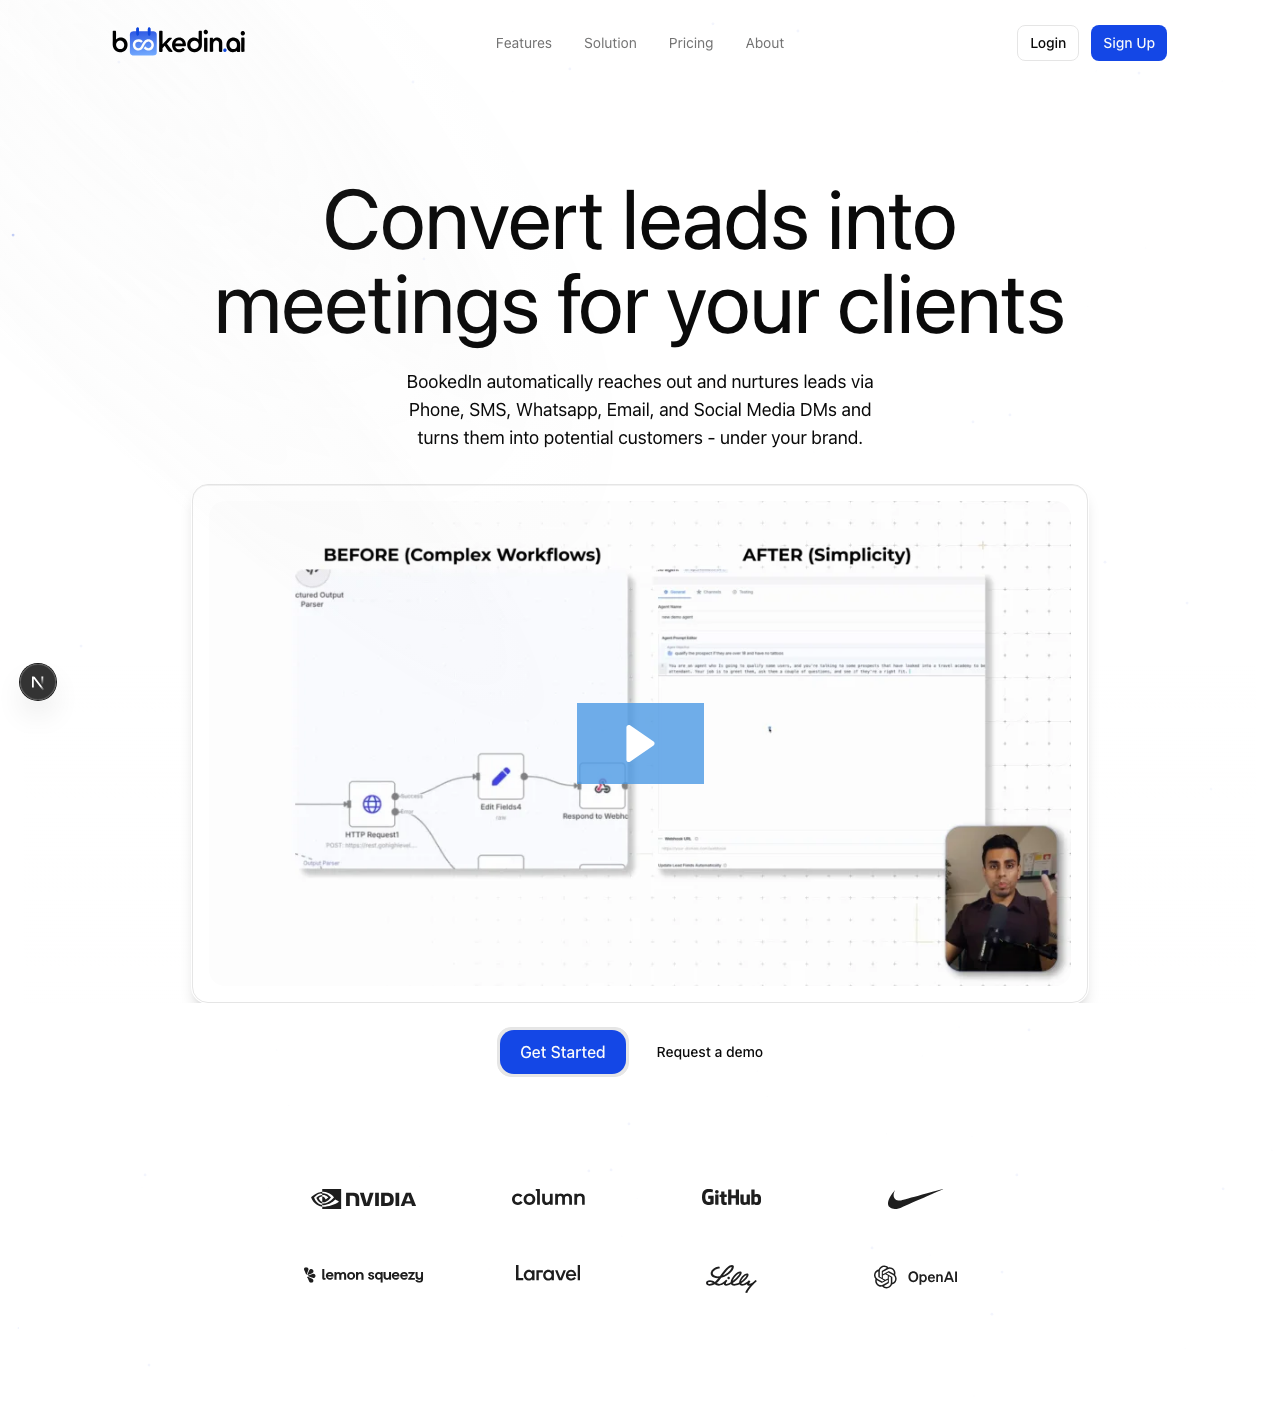
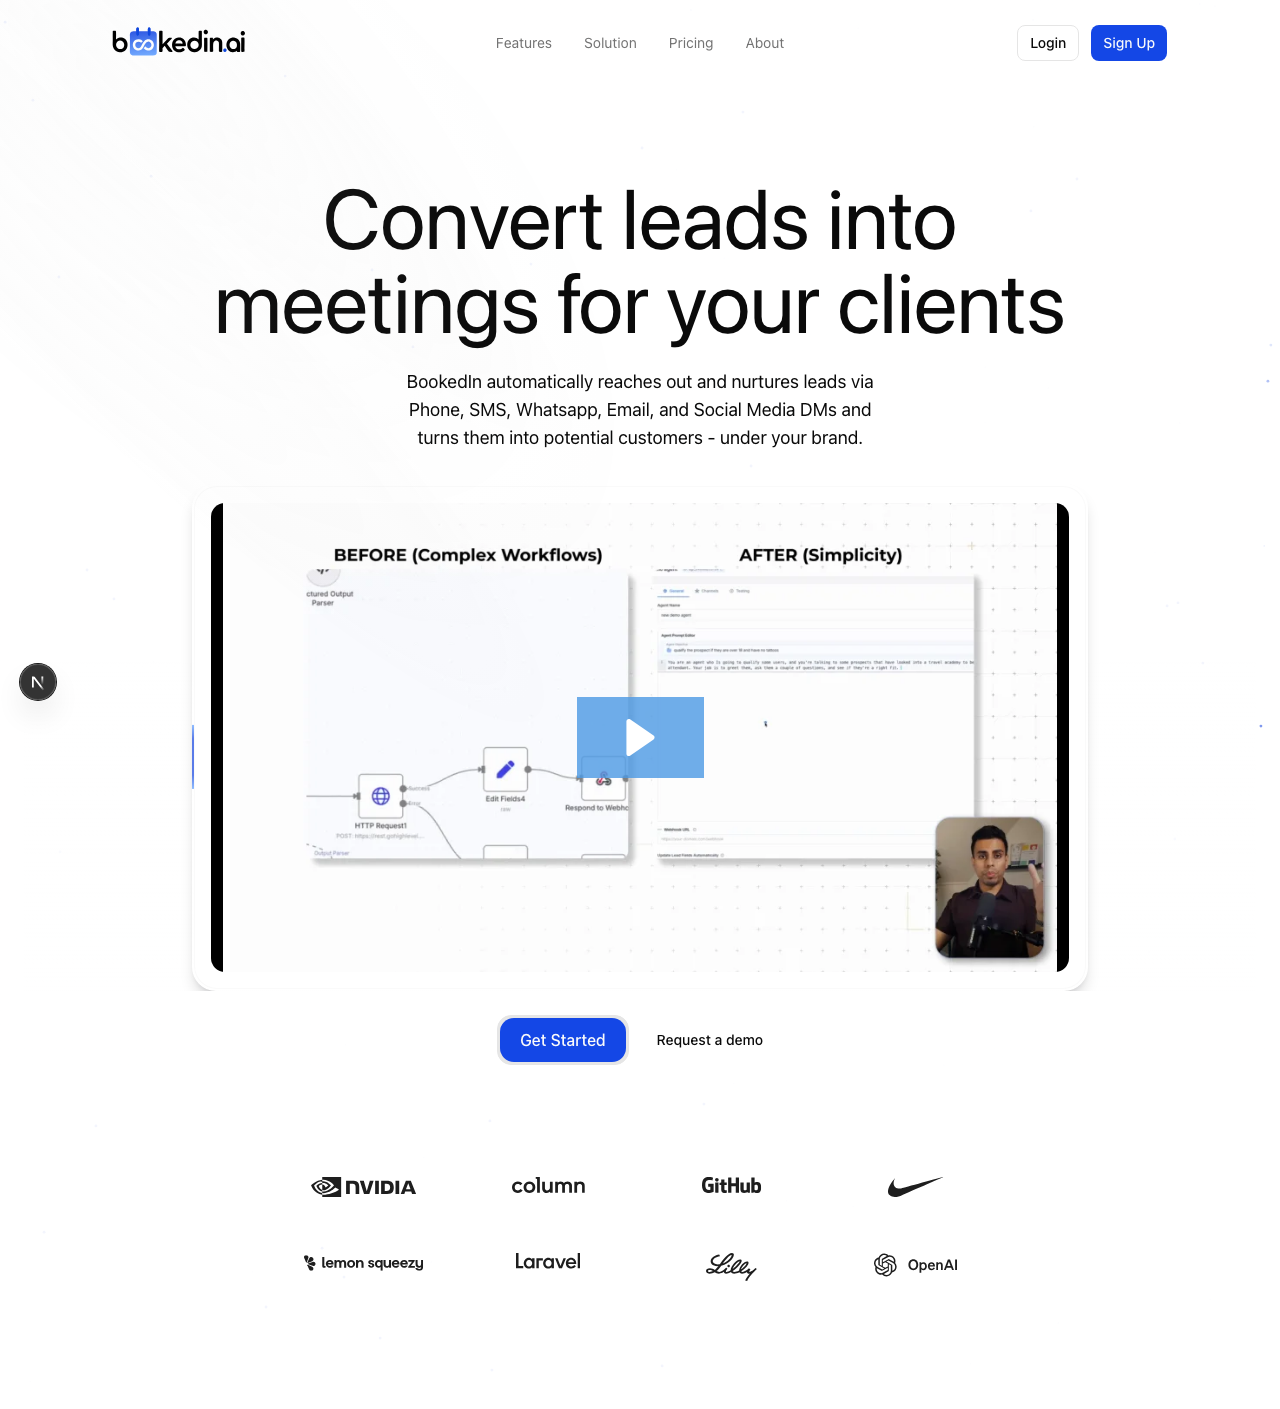
feat: Add moving border animation around video
- Integrated moving-border component from UI library
- Created VideoMovingBorder wrapper specifically for video content
- Added animated border with BookedIn brand colors (#305AE3, #73ABFF)
- Configured 4-second animation duration for smooth effect
- Added CSS variables for sky colors to support gradients
- Created demo component for moving border button
- Verified implementation with Playwright (no console errors)
- Enhanced video presentation with animated border effect

diff --git a/components/ui/moving-border.tsx b/components/ui/moving-border.tsx
@@ -1,0 +1,139 @@
+"use client";
+import React from "react";
+import {
+  motion,
+  useAnimationFrame,
+  useMotionTemplate,
+  useMotionValue,
+  useTransform,
+} from "framer-motion";
+import { useRef } from "react";
+import { cn } from "@/lib/utils";
+
+export function Button({
+  borderRadius = "1.75rem",
+  children,
+  as: Component = "button",
+  containerClassName,
+  borderClassName,
+  duration,
+  className,
+  ...otherProps
+}: {
+  borderRadius?: string;
+  children: React.ReactNode;
+  as?: any;
+  containerClassName?: string;
+  borderClassName?: string;
+  duration?: number;
+  className?: string;
+  [key: string]: any;
+}) {
+  return (
+    <Component
+      className={cn(
+        "bg-transparent relative text-xl  h-16 w-40 p-[1px] overflow-hidden ",
+        containerClassName
+      )}
+      style={{
+        borderRadius: borderRadius,
+      }}
+      {...otherProps}
+    >
+      <div
+        className="absolute inset-0"
+        style={{ borderRadius: `calc(${borderRadius} * 0.96)` }}
+      >
+        <MovingBorder duration={duration} rx="30%" ry="30%">
+          <div
+            className={cn(
+              "h-20 w-20 opacity-[0.8] bg-[radial-gradient(var(--sky-500)_40%,transparent_60%)]",
+              borderClassName
+            )}
+          />
+        </MovingBorder>
+      </div>
+
+      <div
+        className={cn(
+          "relative bg-slate-900/[0.8] border border-slate-800 backdrop-blur-xl text-white flex items-center justify-center w-full h-full text-sm antialiased",
+          className
+        )}
+        style={{
+          borderRadius: `calc(${borderRadius} * 0.96)`,
+        }}
+      >
+        {children}
+      </div>
+    </Component>
+  );
+}
+
+export const MovingBorder = ({
+  children,
+  duration = 2000,
+  rx,
+  ry,
+  ...otherProps
+}: {
+  children: React.ReactNode;
+  duration?: number;
+  rx?: string;
+  ry?: string;
+  [key: string]: any;
+}) => {
+  const pathRef = useRef<any>();
+  const progress = useMotionValue<number>(0);
+
+  useAnimationFrame((time) => {
+    const length = pathRef.current?.getTotalLength();
+    if (length) {
+      const pxPerMillisecond = length / duration;
+      progress.set((time * pxPerMillisecond) % length);
+    }
+  });
+
+  const x = useTransform(
+    progress,
+    (val) => pathRef.current?.getPointAtLength(val).x
+  );
+  const y = useTransform(
+    progress,
+    (val) => pathRef.current?.getPointAtLength(val).y
+  );
+
+  const transform = useMotionTemplate`translateX(${x}px) translateY(${y}px) translateX(-50%) translateY(-50%)`;
+
+  return (
+    <>
+      <svg
+        xmlns="http://www.w3.org/2000/svg"
+        preserveAspectRatio="none"
+        className="absolute h-full w-full"
+        width="100%"
+        height="100%"
+        {...otherProps}
+      >
+        <rect
+          fill="none"
+          width="100%"
+          height="100%"
+          rx={rx}
+          ry={ry}
+          ref={pathRef}
+        />
+      </svg>
+      <motion.div
+        style={{
+          position: "absolute",
+          top: 0,
+          left: 0,
+          display: "inline-block",
+          transform,
+        }}
+      >
+        {children}
+      </motion.div>
+    </>
+  );
+};

diff --git a/components/blocks/hero-section-1.tsx b/components/blocks/hero-section-1.tsx
@@ -7,6 +7,7 @@ import { Button } from '@/components/ui/button'
 import { AnimatedGroup } from '@/components/ui/animated-group'
 import { HeroVideoDialog } from '@/components/ui/hero-video-dialog'
 import { Particles } from '@/components/ui/particles'
+import { VideoMovingBorder } from '@/components/ui/video-border'
 import { cn } from '@/lib/utils'
 
 const transitionVariants = {
@@ -115,16 +116,22 @@ export function HeroSection() {
                                             aria-hidden
                                             className="bg-gradient-to-b to-background absolute inset-0 z-0 from-transparent from-35%"
                                         />
-                                        <div className="inset-shadow-2xs ring-background dark:inset-shadow-white/20 bg-background relative mx-auto max-w-4xl overflow-hidden rounded-2xl border p-4 shadow-lg shadow-zinc-950/15 ring-1 z-20">
-                                            <div className="aspect-video relative rounded-2xl z-30">
-                                                <iframe
-                                                    src="https://fast.wistia.net/embed/iframe/vuxx1meqz9?seo=true&videoFoam=false"
-                                                    title="BookedIn Demo Video"
-                                                    allow="autoplay; fullscreen"
-                                                    allowFullScreen
-                                                    className="absolute inset-0 w-full h-full rounded-2xl"
-                                                ></iframe>
-                                            </div>
+                                        <div className="relative mx-auto max-w-4xl z-20">
+                                            <VideoMovingBorder
+                                                duration={4000}
+                                                borderRadius="1.5rem"
+                                                className="shadow-lg shadow-zinc-950/15"
+                                            >
+                                                <div className="aspect-video relative rounded-2xl overflow-hidden p-4">
+                                                    <iframe
+                                                        src="https://fast.wistia.net/embed/iframe/vuxx1meqz9?seo=true&videoFoam=false"
+                                                        title="BookedIn Demo Video"
+                                                        allow="autoplay; fullscreen"
+                                                        allowFullScreen
+                                                        className="absolute inset-4 w-[calc(100%-2rem)] h-[calc(100%-2rem)] rounded-xl"
+                                                    ></iframe>
+                                                </div>
+                                            </VideoMovingBorder>
                                         </div>
                                     </div>
                                 </AnimatedGroup>

diff --git a/components/ui/video-border.tsx b/components/ui/video-border.tsx
@@ -1,0 +1,132 @@
+"use client";
+import React from "react";
+import {
+  motion,
+  useAnimationFrame,
+  useMotionTemplate,
+  useMotionValue,
+  useTransform,
+} from "framer-motion";
+import { useRef } from "react";
+import { cn } from "@/lib/utils";
+
+export const VideoMovingBorder = ({
+  children,
+  duration = 3000,
+  borderRadius = "1rem",
+  className,
+  borderClassName,
+  ...otherProps
+}: {
+  children: React.ReactNode;
+  duration?: number;
+  borderRadius?: string;
+  className?: string;
+  borderClassName?: string;
+  [key: string]: any;
+}) => {
+  return (
+    <div
+      className={cn(
+        "relative p-[2px] overflow-hidden",
+        className
+      )}
+      style={{
+        borderRadius: borderRadius,
+      }}
+      {...otherProps}
+    >
+      <div
+        className="absolute inset-0"
+        style={{ borderRadius: `calc(${borderRadius} * 0.96)` }}
+      >
+        <MovingBorder duration={duration} rx="8%" ry="8%">
+          <div
+            className={cn(
+              "h-16 w-16 opacity-[0.8] bg-[radial-gradient(#305AE3_40%,#73ABFF_70%,transparent_100%)]",
+              borderClassName
+            )}
+          />
+        </MovingBorder>
+      </div>
+
+      <div
+        className="relative bg-background border border-border/20 backdrop-blur-xl w-full h-full"
+        style={{
+          borderRadius: `calc(${borderRadius} * 0.96)`,
+        }}
+      >
+        {children}
+      </div>
+    </div>
+  );
+};
+
+export const MovingBorder = ({
+  children,
+  duration = 2000,
+  rx,
+  ry,
+  ...otherProps
+}: {
+  children: React.ReactNode;
+  duration?: number;
+  rx?: string;
+  ry?: string;
+  [key: string]: any;
+}) => {
+  const pathRef = useRef<any>();
+  const progress = useMotionValue<number>(0);
+
+  useAnimationFrame((time) => {
+    const length = pathRef.current?.getTotalLength();
+    if (length) {
+      const pxPerMillisecond = length / duration;
+      progress.set((time * pxPerMillisecond) % length);
+    }
+  });
+
+  const x = useTransform(
+    progress,
+    (val) => pathRef.current?.getPointAtLength(val).x
+  );
+  const y = useTransform(
+    progress,
+    (val) => pathRef.current?.getPointAtLength(val).y
+  );
+
+  const transform = useMotionTemplate`translateX(${x}px) translateY(${y}px) translateX(-50%) translateY(-50%)`;
+
+  return (
+    <>
+      <svg
+        xmlns="http://www.w3.org/2000/svg"
+        preserveAspectRatio="none"
+        className="absolute h-full w-full"
+        width="100%"
+        height="100%"
+        {...otherProps}
+      >
+        <rect
+          fill="none"
+          width="100%"
+          height="100%"
+          rx={rx}
+          ry={ry}
+          ref={pathRef}
+        />
+      </svg>
+      <motion.div
+        style={{
+          position: "absolute",
+          top: 0,
+          left: 0,
+          display: "inline-block",
+          transform,
+        }}
+      >
+        {children}
+      </motion.div>
+    </>
+  );
+};

diff --git a/components/ui/moving-border-demo.tsx b/components/ui/moving-border-demo.tsx
@@ -1,0 +1,17 @@
+"use client";
+import React from "react";
+import { Button } from "@/components/ui/moving-border";
+
+export function MovingBorderDemo() {
+  return (
+    <div className="flex items-center justify-center min-h-[200px]">
+      <Button
+        borderRadius="1.75rem"
+        className="bg-white dark:bg-slate-900 text-black dark:text-white border-neutral-200 dark:border-slate-800"
+        duration={3000}
+      >
+        Borders are cool
+      </Button>
+    </div>
+  );
+}

diff --git a/app/globals.css b/app/globals.css
@@ -47,6 +47,9 @@
   --radius: 0.625rem;
   --background: oklch(1 0 0);
   --foreground: oklch(0.145 0 0);
+
+  /* Sky color variables for moving border */
+  --sky-500: #0ea5e9;
   --card: oklch(1 0 0);
   --card-foreground: oklch(0.145 0 0);
   --popover: oklch(1 0 0);
